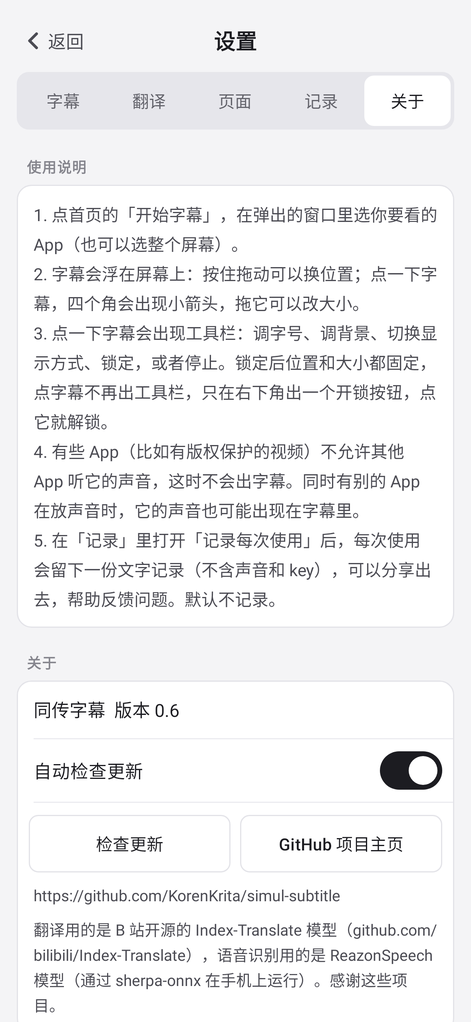
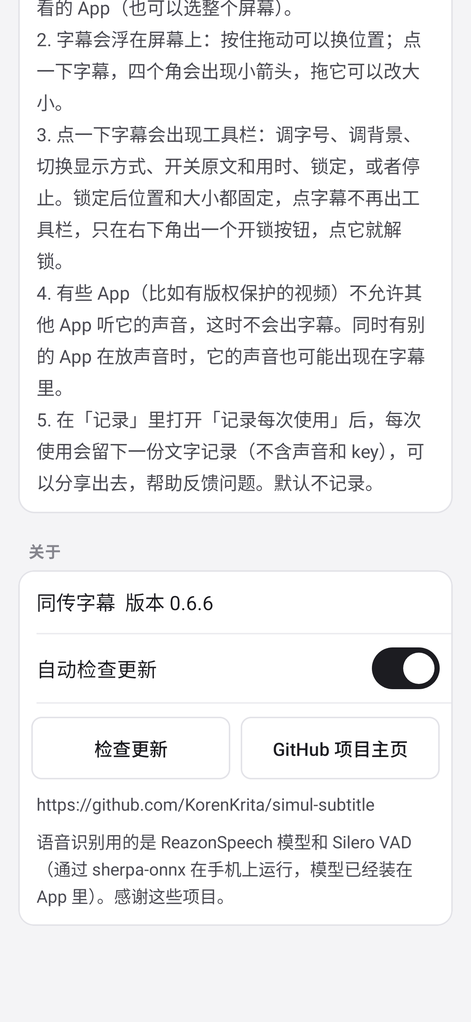
A home card that is ready to use, settings for the LLM API
With the models inside the app there is nothing to download: the home page
is one card with the status, the two languages, the start button and the
LLM API it translates with (a tap opens 设置 › 翻译). Without an LLM API the
card asks for one and its button goes there. The first group of 设置 › 翻译
is now "LLM API". Same on the Mac, which now also removes the models 0.6.5
downloaded into its data folder. The last Index mentions are gone, and the
screenshots show the new pages.

Changed region(s): [[0.0297, 0.0, 0.9214, 0.6067], [0.0594, 0.6067, 0.9512, 1.0], [0.7431, 0.5157, 0.9214, 0.5763]]

diff --git a/desktop/src/main/java/io/github/korenkrita/simulsub/App.kt b/desktop/src/main/java/io/github/korenkrita/simulsub/App.kt
@@ -62,7 +62,7 @@ private fun sizeText(b: Long) = if (b >= 1e6) "%.1f MB".format(b / 1e6) else "%.
 
 /** Starts captions from the home screen, the menu bar or the toolbar; null when it cannot, with the reason. */
 private fun startCaptions(): String? {
-    if (!prefs.byokReady) return "翻译模型还没填完整：请在设置「翻译」里填好服务地址、模型 ID 和 API Key 并保存。"
+    if (!prefs.byokReady) return "LLM API 还没填完整：请在设置「翻译」里填好服务地址、模型 ID 和 API Key 并保存。"
     if (!sysaudioFile.canExecute()) return "找不到系统声音采集程序（${sysaudioFile.path}）"
     // a 测试连接 still running would probe the same service the session probes on first use (billed twice)
     byokTest.value?.cancel(); byokTest.value = null
@@ -126,6 +126,8 @@ private class TrayIcon(val on: Boolean) : Painter() {
 private fun MainScreen(startError: String?, setStartError: (String?) -> Unit) {
     var settings by remember { mutableStateOf(false) }
     var tab by remember { mutableIntStateOf(0) }
+    // 设置 › 翻译, where the LLM API is filled in (the home card's service row and its 去填写)
+    val openTranslate = { tab = 1; settings = true }
     Column(Modifier.fillMaxSize()) {
         if (!settings) {
             Row(Modifier.fillMaxWidth().padding(start = 22.dp, end = 14.dp, top = 18.dp, bottom = 4.dp), verticalAlignment = Alignment.CenterVertically) {
@@ -133,7 +135,7 @@ private fun MainScreen(startError: String?, setStartError: (String?) -> Unit) {
                 Grow()
                 TextBtn("设置") { settings = true }
             }
-            Column(Modifier.fillMaxSize().verticalScroll(rememberScrollState()).padding(horizontal = 18.dp)) { Home(startError, setStartError) }
+            Column(Modifier.fillMaxSize().verticalScroll(rememberScrollState()).padding(horizontal = 18.dp)) { Home(startError, setStartError, openTranslate) }
         } else {
             Box(Modifier.fillMaxWidth().padding(horizontal = 14.dp, vertical = 14.dp)) {
                 TextBtn("‹ 返回") { settings = false }
@@ -152,53 +154,64 @@ private fun MainScreen(startError: String?, setStartError: (String?) -> Unit) {
 // ---- home --------------------------------------------------------------------------------------------------
 
 @Composable
-private fun Home(startError: String?, setStartError: (String?) -> Unit) {
+private fun Home(startError: String?, setStartError: (String?) -> Unit, openTranslate: () -> Unit) {
     val running by CaptionService.runningState
     val ended by CaptionService.endedState
     Text("把视频、直播里的日语和英语，实时变成字幕", color = C.text2, fontSize = 14.sp, modifier = Modifier.padding(start = 4.dp, bottom = 14.dp))
+    // one card: status, the two languages, the one action, and the LLM API it translates with
     Card {
         @Composable fun status(color: Color, title: String, body: String) {
             Row(verticalAlignment = Alignment.CenterVertically) {
                 Dot(color); Spacer(Modifier.width(10.dp)); Text(title, fontSize = 18.sp, fontWeight = FontWeight.Bold)
             }
-            Text(body, color = C.text2, fontSize = 14.sp, lineHeight = 21.sp, modifier = Modifier.padding(start = 19.dp, top = 6.dp, bottom = 14.dp))
+            Text(body, color = C.text2, fontSize = 14.sp, lineHeight = 21.sp, modifier = Modifier.padding(start = 19.dp, top = 6.dp, bottom = 12.dp))
         }
+        @Composable fun bigButton(fill: Color, onClick: () -> Unit, content: @Composable () -> Unit) =
+            Box(Modifier.fillMaxWidth().height(44.dp).background(fill, RoundedCornerShape(10.dp)).clickable { onClick() },
+                contentAlignment = Alignment.Center) { content() }
+        val ready = prefs.byokReady
         when {
-            running && ended -> {
-                status(C.warn, "字幕已经停了", "原因写在字幕框里。点下面的按钮关掉它，然后可以重新开始。")
-                Btn("关掉字幕", modifier = Modifier.fillMaxWidth()) { CaptionService.stop() }
-            }
-            running -> {
-                status(C.ok, "字幕正在显示", "回到你要看的视频或直播就行。\n点一下字幕，可以调大小或停止；关掉这个窗口字幕也会继续，菜单栏图标里可以停止。")
-                Box(Modifier.fillMaxWidth().height(44.dp).background(C.errSoft, RoundedCornerShape(10.dp)).clickable { CaptionService.stop() },
-                    contentAlignment = Alignment.Center) {
-                    Row(verticalAlignment = Alignment.CenterVertically) {
-                        Box(Modifier.size(12.dp).background(C.err, RoundedCornerShape(2.dp)))
-                        Spacer(Modifier.width(10.dp)); Text("停止字幕", fontSize = 16.sp, fontWeight = FontWeight.Bold)
-                    }
-                }
-            }
-            else -> {
-                if (startError != null) status(C.err, "还不能开始", startError)
-                else status(C.brand, "可以开始了", "点下面的按钮开始。第一次会问你是否允许同传字幕录制系统声音，请选「允许」。")
-                Box(Modifier.fillMaxWidth().height(44.dp).background(C.brand, RoundedCornerShape(10.dp))
-                    .clickable { setStartError(startCaptions()) }, contentAlignment = Alignment.Center) {
-                    Text("▶  开始字幕", color = C.onBrand, fontSize = 16.sp, fontWeight = FontWeight.Bold)
-                }
-            }
+            running && ended -> status(C.warn, "字幕已经停了", "原因写在字幕框里。点下面的按钮关掉它，然后可以重新开始。")
+            running -> status(C.ok, "字幕正在显示", "回到你要看的视频或直播就行。\n点一下字幕，可以调大小或停止；关掉这个窗口字幕也会继续，菜单栏图标里可以停止。")
+            !ready -> status(C.warn, "先填翻译用的 LLM API", "填好服务地址、模型 ID 和 API Key，点「测试连接」，就能开始。声音识别已经装在 App 里，不用下载。")
+            startError != null -> status(C.err, "还不能开始", startError)
+            else -> status(C.brand, "可以开始了", "点下面的按钮开始。第一次会问你是否允许同传字幕录制系统声音，请选「允许」。")
         }
-    }
-    GroupTitle("语言")
-    Card {
+        // what is spoken → what the captions are in (a running session: from the next sentence)
         val sources = Lang.SOURCES
-        PickRow("视频里说的是", sources.map { it?.zh ?: "不确定（日语或英语）" }, sources.indexOf(prefs.sourceLang).coerceAtLeast(0)) {
-            prefs.sourceLang = sources[it]
+        Row(verticalAlignment = Alignment.CenterVertically) {
+            Dropdown(sources.map { it?.zh ?: "不确定（日语或英语）" }, sources.indexOf(prefs.sourceLang).coerceAtLeast(0), modifier = Modifier.weight(1f)) {
+                prefs.sourceLang = sources[it]
+            }
+            Text("→", color = C.muted, fontSize = 16.sp, modifier = Modifier.padding(horizontal = 10.dp))
+            Dropdown(Lang.entries.map { it.zh }, prefs.targetLang.ordinal, modifier = Modifier.weight(1f)) { prefs.targetLang = Lang.entries[it] }
         }
-        Divider()
-        PickRow("字幕翻译成", Lang.entries.map { it.zh }, prefs.targetLang.ordinal) { prefs.targetLang = Lang.entries[it] }
+        Hint(if (running) "视频里说的语言 → 字幕的语言。字幕运行中，改了从下一句开始生效。" else "视频里说的语言 → 字幕的语言。知道是哪种语言就选上，翻译会更准。")
+        Spacer(Modifier.height(12.dp))
+        when {
+            running && ended -> Btn("关掉字幕", modifier = Modifier.fillMaxWidth()) { CaptionService.stop() }
+            running -> bigButton(C.errSoft, { CaptionService.stop() }) {
+                Row(verticalAlignment = Alignment.CenterVertically) {
+                    Box(Modifier.size(12.dp).background(C.err, RoundedCornerShape(2.dp)))
+                    Spacer(Modifier.width(10.dp)); Text("停止字幕", fontSize = 16.sp, fontWeight = FontWeight.Bold)
+                }
+            }
+            !ready -> bigButton(C.brand, openTranslate) { Text("去填写", color = C.onBrand, fontSize = 16.sp, fontWeight = FontWeight.Bold) }
+            else -> bigButton(C.brand, { setStartError(startCaptions()) }) {
+                Text("▶  开始字幕", color = C.onBrand, fontSize = 16.sp, fontWeight = FontWeight.Bold)
+            }
+        }
+        Spacer(Modifier.height(12.dp)); Divider()
+        // the LLM API in use; opens 设置 › 翻译
+        val host = ByokTranslator.chatUrl(prefs.byokUrl).second?.let { java.net.URI(it).host }
+        Row(Modifier.fillMaxWidth().clickable { openTranslate() }.padding(top = 10.dp, bottom = 2.dp, start = 4.dp),
+            verticalAlignment = Alignment.CenterVertically) {
+            Text(if (ready) "翻译：${prefs.byokModel} · $host" else "翻译：还没填 LLM API", color = C.text2, fontSize = 14.sp,
+                modifier = Modifier.weight(1f), maxLines = 1)
+            Text("›", color = C.muted, fontSize = 18.sp)
+        }
     }
-    Hint(if (running) "字幕运行中，改了从下一句开始生效。" else "知道是哪种语言就选上，翻译会更准。")
-    Hint("声音只在电脑上识别，不会上传；用在线翻译时，会把识别出的文字发给翻译接口。")
+    Hint("声音只在电脑上识别，不会上传；翻译时只把识别出的文字发给你填的 LLM API。")
 }
 
 // ---- 字幕 --------------------------------------------------------------------------------------------------
@@ -264,11 +277,8 @@ private val byokResult = mutableStateOf<String?>(null)
 @Composable
 private fun TranslateTab() {
     val running by CaptionService.runningState
-    if (running) Note("字幕正在运行：内容类型、结合上文、去掉重复的字、翻译模型（点保存后）和 Jev 在线模型服务、key 改了从下一句开始生效；智能断句和检查译文从下次开始字幕时生效；显示方式马上生效。")
-    Group("怎么翻译") {
-        Hint("视频里说的语言和要翻译成的语言，在首页选（现在是：${prefs.sourceLang?.zh ?: "不确定"} → ${prefs.targetLang.zh}）。")
-        Byok(running)
-    }
+    if (running) Note("字幕正在运行：内容类型、结合上文、去掉重复的字、LLM API（点保存后）和 Jev 在线模型服务、key 改了从下一句开始生效；智能断句和检查译文从下次开始字幕时生效；显示方式马上生效。")
+    Group("LLM API") { Byok(running) }
     Group("内容") {
         Label("内容类型")
         Seg(Scene.entries.map { it to it.label }, prefs.scene) { prefs.scene = it }
@@ -325,7 +335,7 @@ private fun TranslateTab() {
 
 @Composable
 private fun Byok(running: Boolean) {
-    Hint("翻译用你自己的模型服务（OpenAI 兼容接口）。只发送识别出的文字，不发送声音。\n模型要求：必须能关闭思考（深度思考 / reasoning），否则每句都要等很久；尽量选回复速度快的模型，字幕才跟得上。")
+    Hint("填一个 OpenAI 兼容接口的 LLM 服务来翻译字幕，只发送识别出的文字，不发送声音。\n模型要求：必须能关闭思考（深度思考 / reasoning），否则每句都要等很久；尽量选回复速度快的模型，字幕才跟得上。")
     var url by remember { mutableStateOf(prefs.byokUrl) }
     var model by remember { mutableStateOf(prefs.byokModel) }
     var key by remember { mutableStateOf("") }
@@ -471,7 +481,8 @@ private fun LogsTab() {
 @Composable
 private fun AboutTab() {
     Group("使用说明") {
-        Text("1. 点首页的「开始字幕」。第一次会问你是否允许录制系统声音，请选「允许」（以后可以在 系统设置 › 隐私与安全性 › 屏幕与系统录音 里改）。\n" +
+        Text("0. 第一次用：在「设置 › 翻译 › LLM API」里填好你自己的 LLM 服务（OpenAI 兼容接口的地址、模型 ID 和 API Key），点「测试连接」。模型要能关闭思考，回复越快越好。\n" +
+            "1. 点首页的「开始字幕」。第一次会问你是否允许录制系统声音，请选「允许」（以后可以在 系统设置 › 隐私与安全性 › 屏幕与系统录音 里改）。\n" +
             "2. 字幕浮在所有窗口上面：按住拖动可以换位置；点一下字幕，四个角会出现小箭头，拖它可以改大小。\n" +
             "3. 点一下字幕会出现工具栏：调字号、调背景、切换显示方式、开关原文和用时、锁定，或者停止。锁定后位置和大小都固定，点字幕不再出工具栏，只在右下角出一个解锁按钮，点它就解锁。\n" +
             "4. 字幕听的是这台 Mac 播放出来的所有声音，不用麦克风；同时有别的 App 在放声音时，它的声音也会出现在字幕里。\n" +

diff --git a/app/src/main/java/io/github/korenkrita/simulsub/MainActivity.kt b/app/src/main/java/io/github/korenkrita/simulsub/MainActivity.kt
@@ -198,22 +198,44 @@ class MainActivity : Activity() {
         if (!back()) @Suppress("DEPRECATION") super.onBackPressed()
     }
 
-    /** The home page's two questions: what is spoken, what the captions should be in. Next start, like the settings. */
+    /** The home card's two questions, side by side: what is spoken → what the captions should be in. Next sentence. */
     private fun renderLang() {
         val box = findViewById<LinearLayout>(R.id.langBox)
         box.removeAllViews()
         val running = CaptionService.running
         val sources = Lang.SOURCES
+        fun weighted(v: View) = v.apply { layoutParams = LinearLayout.LayoutParams(0, LinearLayout.LayoutParams.WRAP_CONTENT, 1f) }
         // a running session takes a new language from the next sentence
-        box.addView(pickRow("视频里说的是", sources.map { it?.zh ?: "不确定（日语或英语）" }, sources.indexOf(prefs.sourceLang).coerceAtLeast(0), true) {
+        box.addView(weighted(dropdown(sources.map { it?.zh ?: "不确定（日语或英语）" }, sources.indexOf(prefs.sourceLang).coerceAtLeast(0), true, wrap = true) {
             if (prefs.sourceLang != sources[it]) { prefs.sourceLang = sources[it]; renderTranslate() }
+        }).apply { contentDescription = "视频里说的是" })
+        box.addView(TextView(this).apply {
+            text = "→"; textSize = 16f; setTextColor(getColor(R.color.muted)); importantForAccessibility = View.IMPORTANT_FOR_ACCESSIBILITY_NO
+            setPadding((10 * dpx).toInt(), 0, (10 * dpx).toInt(), 0)
         })
-        box.addView(divider())
         val targets = Lang.entries
-        box.addView(pickRow("字幕翻译成", targets.map { it.zh }, prefs.targetLang.ordinal, true) {
+        box.addView(weighted(dropdown(targets.map { it.zh }, prefs.targetLang.ordinal, true, wrap = true) {
             if (prefs.targetLang != targets[it]) { prefs.targetLang = targets[it]; renderTranslate() }
-        })
-        findViewById<TextView>(R.id.langHint).text = if (running) "字幕运行中，改了从下一句开始生效。" else "知道是哪种语言就选上，翻译会更准。"
+        }).apply { contentDescription = "字幕翻译成" })
+        findViewById<TextView>(R.id.langHint).text = if (running) "视频里说的语言 → 字幕的语言。字幕运行中，改了从下一句开始生效。"
+            else "视频里说的语言 → 字幕的语言。知道是哪种语言就选上，翻译会更准。"
+    }
+
+    /** The home card's last row: the LLM API translations go to (or that none is set up yet); opens 设置 › 翻译. */
+    private fun renderService() {
+        val host = ByokTranslator.chatUrl(prefs.byokUrl).second?.let { android.net.Uri.parse(it).host }
+        findViewById<TextView>(R.id.serviceText).text =
+            if (prefs.byokReady) "翻译：${prefs.byokModel} · $host" else "翻译：还没填 LLM API"
+        findViewById<View>(R.id.serviceRow).setOnClickListener { openTranslate() }
+    }
+
+    /** 设置 › 翻译, where the LLM API is filled in. */
+    private fun openTranslate() {
+        showSettings(true)
+        // through the category switch, so its checked button follows (its listener shows the tab)
+        val g = findViewById<android.widget.FrameLayout>(R.id.tabBox).getChildAt(0) as com.google.android.material.button.MaterialButtonToggleGroup
+        val want = TABS.indexOfFirst { it.first == R.id.tabTranslate }
+        (0 until g.childCount).map { g.getChildAt(it) }.firstOrNull { it.tag == want }?.let { g.check(it.id) }
     }
 
     override fun onResume() {
@@ -276,8 +298,17 @@ class MainActivity : Activity() {
         } else {
             val missingPerm = !hasAudio() || !Settings.canDrawOverlays(this)
             val hint = if (missingPerm) "点下面的按钮，按提示允许下方两项，就能开始。" else "点下面的按钮，再在弹出的窗口里选你要看的 App。"
-            if (!prefs.byokReady) status(R.color.err, "翻译模型还没填完整", "请在设置的「怎么翻译」里填好服务地址、模型 ID 和 API Key 并保存。")
-            else if (startRefused) status(R.color.err, "手机暂时不让字幕启动", "请再点一次开始。如果还是不行，请反馈出现这个提示前做了什么。")
+            renderService()
+            if (!prefs.byokReady) {
+                // nothing else to set up: without an LLM API there is nothing to start, so the one action goes there
+                status(R.color.warn, "先填翻译用的 LLM API", "填好服务地址、模型 ID 和 API Key，点「测试连接」，就能开始。声音识别已经装在 App 里，不用下载。")
+                primary.text = "去填写"; primary.setIconResource(R.drawable.ic_settings)
+                primary.backgroundTintList = ColorStateList.valueOf(getColor(R.color.brand))
+                onPrimary(R.color.on_brand)
+                primary.setOnClickListener { openTranslate() }
+                return
+            }
+            if (startRefused) status(R.color.err, "手机暂时不让字幕启动", "请再点一次开始。如果还是不行，请反馈出现这个提示前做了什么。")
             else status(R.color.brand, if (missingPerm) "还差一步" else "可以开始了", hint)
             primary.text = "开始字幕"; primary.setIconResource(R.drawable.ic_play)
             primary.backgroundTintList = ColorStateList.valueOf(getColor(R.color.brand))
@@ -525,12 +556,11 @@ class MainActivity : Activity() {
         root.removeAllViews()
         val running = CaptionService.running
         translateRunning = running
-        if (running) root.addView(note("字幕正在运行：内容类型、结合上文、去掉重复的字、翻译模型（点保存后）和 Jev 在线模型服务、key 改了从下一句开始生效；智能断句和检查译文从下次开始字幕时生效；显示方式马上生效。"), LinearLayout.LayoutParams(
+        if (running) root.addView(note("字幕正在运行：内容类型、结合上文、去掉重复的字、LLM API（点保存后）和 Jev 在线模型服务、key 改了从下一句开始生效；智能断句和检查译文从下次开始字幕时生效；显示方式马上生效。"), LinearLayout.LayoutParams(
             LinearLayout.LayoutParams.MATCH_PARENT, LinearLayout.LayoutParams.WRAP_CONTENT).apply { topMargin = (12 * dpx).toInt() })
 
-        // -- how it translates
-        var box = group(root, "怎么翻译")
-        box.addView(hint("视频里说的语言和要翻译成的语言，在首页选（现在是：${prefs.sourceLang?.zh ?: "不确定"} → ${prefs.targetLang.zh}）。"))
+        // -- the LLM API the captions are translated with
+        var box = group(root, "LLM API")
         renderByok(box, running)
 
         box = group(root, "内容")
@@ -626,8 +656,7 @@ class MainActivity : Activity() {
 
     /** BYOK: the user's OpenAI-compatible service; URL, key, model id and a test that also finds the thinking switch. */
     private fun renderByok(box: LinearLayout, running: Boolean) {
-        box.addView(hint("翻译用你自己的模型服务（OpenAI 兼容接口）。只发送识别出的文字，不发送声音。\n模型要求：必须能关闭思考（深度思考 / reasoning），否则每句都要等很久；尽量选回复速度快的模型，字幕才跟得上。"),
-            LinearLayout.LayoutParams(LinearLayout.LayoutParams.MATCH_PARENT, LinearLayout.LayoutParams.WRAP_CONTENT).apply { topMargin = (10 * dpx).toInt() })
+        box.addView(hint("填一个 OpenAI 兼容接口的 LLM 服务来翻译字幕，只发送识别出的文字，不发送声音。\n模型要求：必须能关闭思考（深度思考 / reasoning），否则每句都要等很久；尽量选回复速度快的模型，字幕才跟得上。"))
         fun field(title: String, value: String, hintText: String, password: Boolean = false): android.widget.EditText {
             box.addView(label(title))
             return android.widget.EditText(this).apply {

diff --git a/desktop/src/main/java/io/github/korenkrita/simulsub/Main.kt b/desktop/src/main/java/io/github/korenkrita/simulsub/Main.kt
@@ -24,5 +24,10 @@ fun main() {
     // Cmd-Q / SIGTERM: the helper only notices a lost reader when it next writes, so end it here (not via the UI
     // thread, which may already be gone)
     Runtime.getRuntime().addShutdownHook(Thread { CaptionService.killCapture() })
+    // Up to 0.6.5 the models were downloaded into the data folder (the local translation model 1.3 GB); they are
+    // inside the app now, so the old copies only take space: removed in the background (the models in use are
+    // elsewhere, unless -Dsimulsub.models points at that folder)
+    val old = File(dataDir, "models")
+    if (old.canonicalFile != modelsDir.canonicalFile) Thread { old.deleteRecursively() }.apply { isDaemon = true }.start()
     app()
 }

diff --git a/desktop/src/main/java/io/github/korenkrita/simulsub/Session.kt b/desktop/src/main/java/io/github/korenkrita/simulsub/Session.kt
@@ -129,7 +129,7 @@ class CaptionService private constructor(private val sysaudio: File) {
             val v0 = order.version()
             val s0 = Snap(prefs, wantJev)
             if (s0.byokUrl == null || s0.byokModel.isEmpty() || s0.byokKey == null) {
-                setStatus("⚠ 翻译模型还没填完整（地址、key、模型 ID），请到设置里填好"); Log.w(TAG, "byok incomplete"); return
+                setStatus("⚠ LLM API 还没填完整（地址、key、模型 ID），请到设置「翻译」里填好"); Log.w(TAG, "byok incomplete"); return
             }
             val t0 = monoMs()
             // the models ship inside the app (or come from ./models when run from the repo)

diff --git a/app/src/main/java/io/github/korenkrita/simulsub/CaptionService.kt b/app/src/main/java/io/github/korenkrita/simulsub/CaptionService.kt
@@ -154,7 +154,7 @@ class CaptionService : Service() {
             val v0 = order.version()
             val s0 = Snap(prefs, wantJev)
             if (s0.byokUrl == null || s0.byokModel.isEmpty() || s0.byokKey == null) {
-                setStatus("⚠ 翻译模型还没填完整（地址、key、模型 ID），请到设置里填好"); Log.w(TAG, "byok incomplete"); return
+                setStatus("⚠ LLM API 还没填完整（地址、key、模型 ID），请到设置「翻译」里填好"); Log.w(TAG, "byok incomplete"); return
             }
             val t0 = monoMs()
             // the models ship inside the APK: sherpa-onnx reads them from the assets

diff --git a/core/src/main/java/io/github/korenkrita/simulsub/Translation.kt b/core/src/main/java/io/github/korenkrita/simulsub/Translation.kt
@@ -18,7 +18,7 @@ enum class Scene(val label: String, val background: String?, val terms: List<Pai
 }
 
 /**
- * The target languages offered (the 22 core languages of Index-Translate, technical report table 31), with the names
+ * The target languages offered (22 widely spoken languages), with the names
  * the translation prompt uses and English names for the Jev questions. Targets: all. Sources: [SOURCES].
  */
 enum class Lang(val code: String, val zh: String, val en: String) {

diff --git a/README.md b/README.md
@@ -24,7 +24,7 @@
     <td><img src="docs/images/screens/overlay.png" width="300" alt="悬浮字幕（点一下出工具栏）"></td>
     <td><img src="docs/images/screens/caption.png" width="200" alt="设置 · 字幕"></td>
     <td><img src="docs/images/screens/size.png" width="200" alt="字幕框大小和保留几句"></td>
-    <td><img src="docs/images/screens/translate.png" width="200" alt="设置 · 翻译"></td>
+    <td><img src="docs/images/screens/translate.png" width="200" alt="设置 · 翻译（LLM API）"></td>
     <td><img src="docs/images/screens/page-dark.png" width="200" alt="设置 · 页面（夜间）"></td>
     <td><img src="docs/images/screens/records.png" width="200" alt="设置 · 记录"></td>
     <td><img src="docs/images/screens/about.png" width="200" alt="设置 · 关于"></td>
@@ -35,7 +35,7 @@
     <td align="center">悬浮字幕（点一下出工具栏）</td>
     <td align="center">设置 · 字幕</td>
     <td align="center">字幕框大小和保留几句</td>
-    <td align="center">设置 · 翻译</td>
+    <td align="center">设置 · 翻译（LLM API）</td>
     <td align="center">设置 · 页面（夜间）</td>
     <td align="center">设置 · 记录</td>
     <td align="center">设置 · 关于</td>
@@ -50,11 +50,11 @@
 - **边听边出**：说话人一开口，字幕就开始出现；一句说完，再变成正式字幕。
 - **听写在手机上完成**：声音只在你的手机里识别成文字，**不会上传**。
 - **可以翻成 22 种语言**：中文、英语、日语、韩语、法语、德语、西班牙语、俄语、阿拉伯语、泰语、越南语……
-- **用你自己的翻译模型**：填上任意 OpenAI 兼容服务的地址、模型 ID 和 key（例如 DeepSeek、通义千问），按你自己的用量计费。
+- **用你自己的 LLM API 翻译**：填上任意 OpenAI 兼容服务的地址、模型 ID 和 key（例如 DeepSeek、通义千问），按你自己的用量计费。
 
 ## 三步开始
 
-1. **填翻译服务**：点首页右上角的齿轮，进入「设置 → 翻译」，填好服务地址、模型 ID 和 API Key，点「测试连接」。模型要能关闭思考，并且尽量选回复快的（见下面的常见问题）。
+1. **填 LLM API**：第一次打开，首页会提示「先填翻译用的 LLM API」，点「去填写」（或者「设置 → 翻译」），填好服务地址、模型 ID 和 API Key，点「测试连接」。模型要能关闭思考，并且尽量选回复快的（见下面的常见问题）。
 2. **允许**：按提示允许「听 App 的声音」和「在屏幕上显示字幕」。
 3. **开始**：点「开始字幕」，在弹出的窗口里选你要看的 App，回到视频就能看到字幕。
 
@@ -96,7 +96,7 @@
 现在能听日语和英语。在首页选好视频里说的语言，翻译会更准。
 
 **会上传我的声音吗？**
-不会。声音在手机上变成文字；翻译时只把识别出的文字发给你填的翻译服务。详见 [隐私说明](docs/privacy.md)。
+不会。声音在手机上变成文字；翻译时只把识别出的文字发给你填的 LLM API。详见 [隐私说明](docs/privacy.md)。
 
 **翻译模型怎么选？**
 必须是能关闭思考（深度思考 / reasoning）的模型，否则每句都要等很久；尽量选回复速度快的模型，字幕才跟得上。第一次用某个模型时，App 会自动试出关闭思考的参数并记住。

diff --git a/README.en.md b/README.en.md
@@ -54,7 +54,7 @@
 
 ## Get started in three steps
 
-1. **Set up translation**: tap the gear at the top right of the home screen, go to Settings → 翻译, fill in the service address, model ID and API key, then tap 测试连接 (test). The model must be able to turn thinking off and should answer fast (see the FAQ).
+1. **Set up the LLM API**: on first launch the home screen asks for it; tap 去填写 (or go to Settings → 翻译), fill in the service address, model ID and API key, then tap 测试连接 (test). The model must be able to turn thinking off and should answer fast (see the FAQ).
 2. **Allow**: let the app hear other apps' sound and draw over other apps.
 3. **Start**: tap 开始字幕, pick the app you want to watch, and go back to your video.
 

diff --git a/docs/translation.md b/docs/translation.md
@@ -1,6 +1,6 @@
 # 翻译
 
-翻译用你自己填的 OpenAI 兼容服务（BYOK）：服务地址、模型 ID 和 API Key 都由你提供，费用由服务商按你的用量收取。App 不再内置免费的在线翻译，也不能在手机上本地运行翻译模型（0.6.5 是最后一个带这两种方式的版本）。
+翻译用你自己填的 LLM API（OpenAI 兼容接口，BYOK）：服务地址、模型 ID 和 API Key 都由你提供，费用由服务商按你的用量收取。
 
 只发送识别出的文字和提示词，不发送声音。
 
